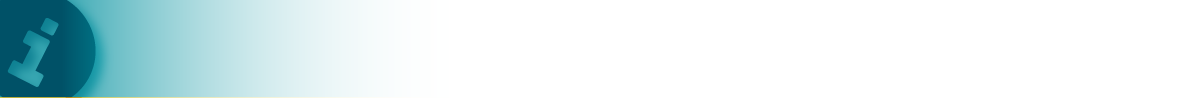
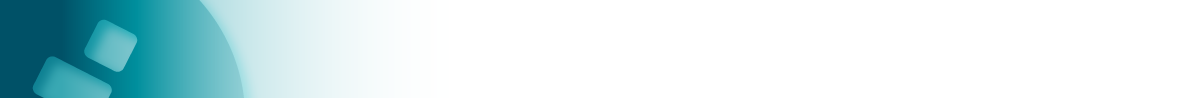
a few styling tests

Changed region(s): [[0.0, 0.0, 0.2467, 1.0]]

diff --git a/caloomhtml/UI/docs/oip-additions/oip-assets/oip-css/oip-bootstrap.css b/caloomhtml/UI/docs/oip-additions/oip-assets/oip-css/oip-bootstrap.css
@@ -4741,8 +4741,8 @@ a.badge:hover {
 .hero-unit,
 .oip-marketing {
   padding: 60px;
-  padding-top: 10px;
-  margin-bottom: 30px;
+  padding-top: 20px;
+  margin-bottom: 0px;
   background-color: #ffffff;
   -webkit-border-radius: 6px;
   -moz-border-radius: 6px;
@@ -4751,11 +4751,16 @@ a.badge:hover {
 .hero-unit h1,
 .oip-marketing h1 {
   margin-bottom: 0;
-  font-size: 60px;
+  font-size: 49px;
   line-height: 1;
   color: #555555;
   letter-spacing: -1px;
   text-align: center;
+}
+.hero-unit h1 small,
+.oip-marketing h1 small {
+  font-size: 21px;
+  color: #555555;
 }
 .hero-unit p,
 .oip-marketing p {
@@ -4801,9 +4806,9 @@ a.badge:hover {
 .oip-marketing {
   background-repeat: no-repeat;
   width: auto;
-  padding-top: 10px;
-  padding-bottom: 30px;
-  background-color: ;
+  padding-top: 22px;
+  padding-bottom: 0px;
+  background-color: white;
 }
 div.blog > .oip-marketing {
   background-image: url("http://caloomgit:8888/UI/docs//../oip-additions/oip-assets/oip-images/ui/hero-unit-blog.png");
@@ -4826,6 +4831,18 @@ div.latest > .oip-marketing {
 div.services h1 {
   margin-top: 0px;
   padding-top: 0px;
+}
+.index {
+  background-repeat: no-repeat;
+  width: auto;
+  padding: 0px;
+  margin: 0px;
+}
+.index-blog {
+  background-color: #fcc20a;
+}
+.row-blog {
+  border-bottom: #fcc20a 9px solid;
 }
 .accordion-group-index {
   border: 1px solid #ffffff;

diff --git a/caloomhtml/UI/docs/oip-additions/oip-assets/less/oip-aalto-id.less b/caloomhtml/UI/docs/oip-additions/oip-assets/less/oip-aalto-id.less
@@ -36,10 +36,10 @@
 .hero-unit, .oip-marketing {
 //background-image: url("@{base-url-local}/../oip-additions/oip-assets/oip-images/ui/oip-hero-solid-turquoise.png");
 background-repeat: no-repeat ;
- width: auto;
-padding-top: 10px;
-padding-bottom: 30px;
-background-color: ;}
+width: auto;
+padding-top: 22px;
+padding-bottom: 0px;
+background-color: white;}
 
 div.blog >.oip-marketing {
   background-image: url("@{base-url-local}/../oip-additions/oip-assets/oip-images/ui/hero-unit-blog.png");
@@ -64,6 +64,21 @@ div.services h1  {
   padding-top: 0px;
 }
 
+.index {
+  background-repeat: no-repeat ;
+  width: auto;
+  padding: 0px;
+  margin: 0px;
+}
+.index-blog {
+  //background-image: url("@{base-url-local}/../oip-additions/oip-assets/oip-images/ui/index-blog.png");
+  background-color: @aaltoYellow;
+}
+
+
+.row-blog {
+  border-bottom: @aaltoYellow 9px solid;
+}
 // adjustments for accordion in index
 // border set to bodybackground
 .accordion-group-index {

diff --git a/caloomhtml/UI/docs/oip-additions/oip-assets/less/hero-unit.less b/caloomhtml/UI/docs/oip-additions/oip-assets/less/hero-unit.less
@@ -5,18 +5,22 @@
 
 .hero-unit, .oip-marketing {
   padding: 60px;
-  padding-top: 10px;
-  margin-bottom: 30px;
+  padding-top: 20px;
+  margin-bottom: 0px;
   background-color: @white;//@heroUnitBackground;
   .border-radius(6px);
   h1 {
     margin-bottom: 0;
-    font-size: 60px;
-    line-height: 1;
+    font-size:@baseFontSize * 3.5;
+    line-height:1;
     color: @heroUnitHeadingColor;
     letter-spacing: -1px;
     text-align: center;
   }
+  h1 small {
+    font-size:@baseFontSize * 1.5;
+    color: @heroUnitHeadingColor;
+   }
   p {
     font-size: 18px;
     font-weight: 200;

diff --git a/caloomhtml/UI/docs/oip-additions/oip-assets/less/type.less b/caloomhtml/UI/docs/oip-additions/oip-assets/less/type.less
@@ -54,6 +54,7 @@ h1, h2, h3, h4, h5, h6 {
     color: @grayLight;
   }
 }
+
 h1 { font-size: 24px; line-height: 30px; }
 h2 { font-size: 18px; line-height: 24px; }
 h3 { font-size: 16px; line-height: 20px; }
